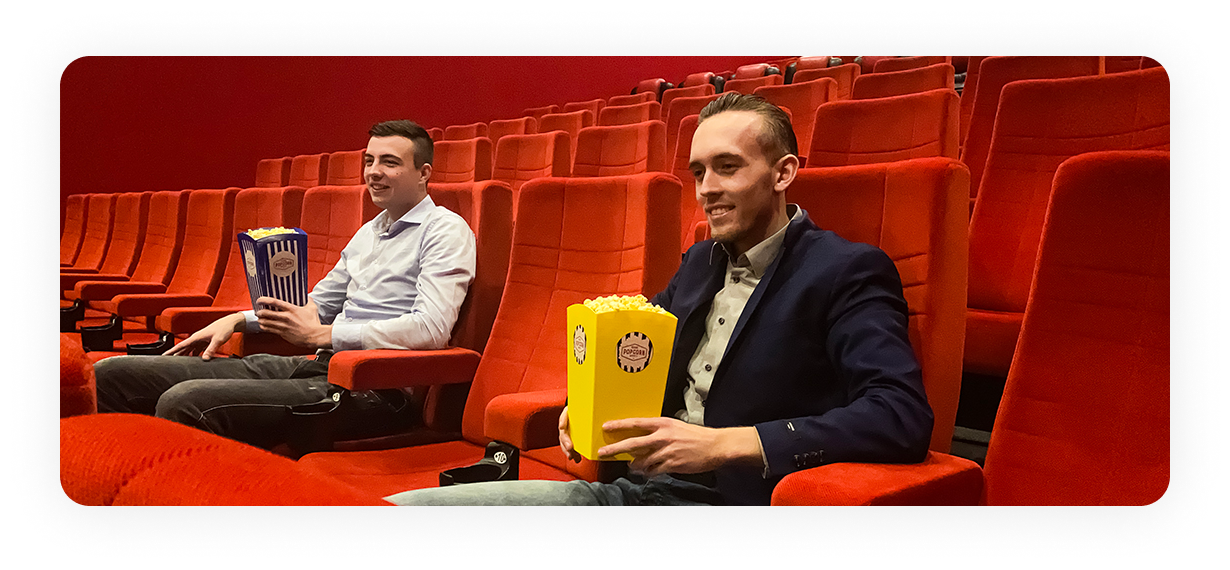
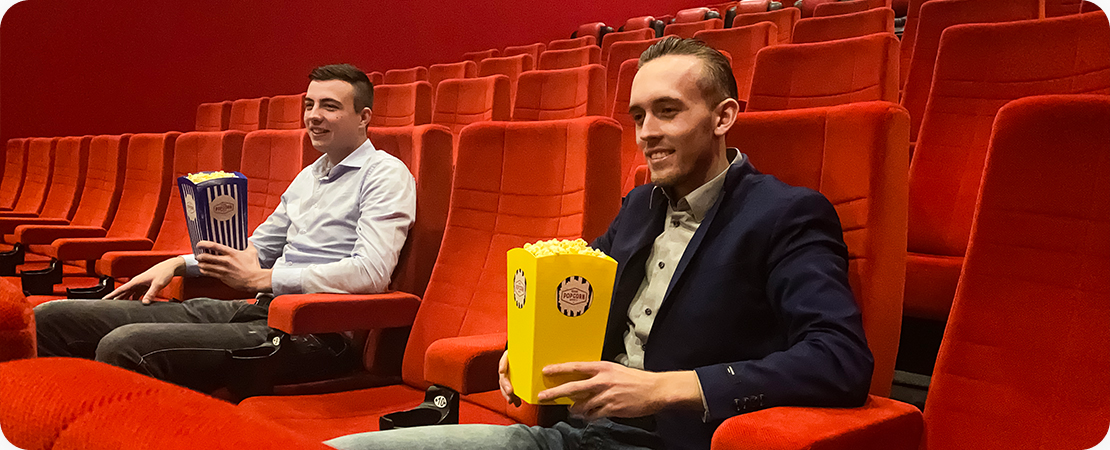
added vectors to home about popcorn

diff --git a/src/assets/css/popcorn.css b/src/assets/css/popcorn.css
@@ -6,7 +6,7 @@ section#sustainable-minfal {
     margin-bottom: 50px;
 }
 section#benefits {
-    margin-bottom: 358px;
+    margin-bottom: 150px;
 }
 section#product-range {
     margin-bottom: 50px;
@@ -31,14 +31,56 @@ section#contact-footer {
     section#hero {
         margin-bottom: 70px;
     }
+    section#sustainable-minfal {
+        position: relative;
+    }
+    section#sustainable-minfal .vector {
+        position: absolute;
+        background-image: url("./../vectors/popcornbeker.png");
+        background-repeat: no-repeat;
+        background-position: top left;
+        background-size: contain;
+        width: 205px;
+        height: 227px;
+        top: -60px;
+    }
     section#benefits {
-        margin-bottom: 414px;
+        background-image: url("./../vectors/waves.svg");
+        background-repeat: no-repeat;
+        background-position: top right;
+        background-size: 214px 96px;
+        margin-bottom: 0;
     }
     section#product-range {
-        margin-bottom: 160px;
+        padding-top: 414px;
+        padding-bottom: 160px;
+        margin-bottom: 0;
+        background-image: 
+                url("./../vectors/striped-circle.png"),
+                url("./../vectors/popcorn-popcornbeker-drink.png"),
+                url("./../vectors/popcorn-popcornbeker.png"),
+                url("./../vectors/popcorn-product-range-top.png");
+        background-size:
+                200px 200px,
+                auto 172px,
+                auto 325px,
+                contain;
+        background-repeat: no-repeat;
+        background-position: 
+                top 20% right,
+                top 50% left 5%,
+                top 75% right 5%,
+                top left;
     }
     section#product-range-text {
-        margin-bottom: 280px;
+        padding-bottom: 500px;
+        background-image: url("./../vectors/popcorn-product-range-text.png");
+        background-size: contain;
+        background-repeat: no-repeat;
+        background-position: top
+    }
+    section#contact-footer {
+        margin-top: -400px;
     }
 }
 
@@ -48,4 +90,7 @@ section#contact-footer {
 
 /* XX-Large devices (larger desktops, 1400px and up)*/
 @media (min-width: 1400px) {
+    section#contact-footer {
+        margin-top: -250px;
+    }
 }

diff --git a/src/assets/css/home.css b/src/assets/css/home.css
@@ -3,6 +3,15 @@ section#hero {
     position: relative;
     overflow-x: hidden;
 }
+section#hero .waves {
+    position: absolute;
+    background-image: url("./../vectors/waves.svg");
+    background-repeat: no-repeat;
+    background-position: bottom 20% right;
+    width: 100%;
+    height: 100%;
+    z-index: -1;
+}
 section#products {
     margin-bottom: 100px;
 }
@@ -20,6 +29,7 @@ section#partner-card {
 }
 section#contact-footer {
     margin-bottom: 60px;
+    position: relative;
 }
 
 /* Small devices (landscape phones, 576px and up)*/
@@ -40,18 +50,37 @@ section#contact-footer {
     }
     section#products {
         margin-bottom: 100px;
+        background-image: url("./../vectors/home-products-vector-left.png");
+        background-repeat: no-repeat;
+        background-position: top 30px left;
+        background-size: contain;
     }
     section#number-card {
         margin-bottom: 100px;
     }
     section#product-range {
-        margin-bottom: 260px;
+        /*margin-bottom: 260px;*/
     }
     section#sale-models {
-        margin-bottom: 160px;
+        padding-top: 260px;
+        padding-bottom: 160px;
+        background-image: url("./../vectors/home-sale-models-background.png");
+        background-repeat: no-repeat;
+        background-position: top left;
+        background-size: cover;
     }
     section#partner-card {
         margin-bottom: 100px;
+    }
+    section#contact-footer .waves {
+        position: absolute;
+        background-image: url("./../vectors/waves.svg");
+        background-repeat: no-repeat;
+        background-position: top left;
+        width: 300px;
+        height: 100px;
+        top: -135px;
+        z-index: -1;
     }
 }
 

diff --git a/src/assets/css/about.css b/src/assets/css/about.css
@@ -10,6 +10,20 @@ section#lean-startup {
 }
 section#challenge {
     margin-bottom: 66px;
+    position: relative;
+}
+section#challenge .vector {
+    overflow-x: hidden;
+    overflow-y: visible;
+    position: absolute;
+    width: 100vw;
+    height: 915px;
+    top: 580px;
+    z-index: -1;
+    background-image: url("./../vectors/about-challenge-left.png");
+    background-repeat: no-repeat;
+    background-position: top left; 
+    background-size: contain;
 }
 section#mission {
     margin-bottom: 20px;
@@ -31,14 +45,28 @@ section#contact-footer {
 
 /* Large devices (desktops, 992px and up)*/
 @media (min-width: 992px) {
+    section#hero {
+        margin-bottom: 40px;
+    }
     section#personalities {
         margin-bottom: 70px;
+        background-image: url("./../vectors/waves.svg"), url("./../vectors/grey-triangle.svg");
+        background-repeat: no-repeat;
+        background-position: center right, bottom left 15px;
+        background-size: 214px 96px, 211px 183px;
     }
     section#lean-startup {
         margin-bottom: 90px;
     }
     section#challenge {
         margin-bottom: 80px;
+    }
+    section#challenge .vector {
+        top: 120px;
+        background-image: url("./../vectors/about-challenge-left.png"), url("./../vectors/striped-circle.png");
+        background-repeat: no-repeat;
+        background-position: top left, center right -15px;
+        background-size: contain, 200px 200px;
     }
     section#mission {
         margin-bottom: 50px;

diff --git a/src/components/NumberCard.vue b/src/components/NumberCard.vue
@@ -3,6 +3,7 @@
 <template>
     <div class="container">
         <div class="card">
+            <img class="vector" src="@/assets/vectors/six-squares.png" alt="vector">
             <div class="row">
                 <div class="col-12 col-lg-4">
                     <p class="card-title">10 mln</p>
@@ -23,8 +24,8 @@
 
 <style scoped>
 div.card {
-    background-image: url("@/assets/images/number-card-background.png");
-    background-position: center;
+    background-image: url("@/assets/images/number-card-background.png"), url("@/assets/vectors/six-squares.png");
+    background-position: center, top right;
     background-size: cover;
     background-repeat: no-repeat;
     width: 100%;
@@ -46,6 +47,13 @@ p.card-text {
     font-weight: 600;
     color: var(--white);
 }
+img.vector {
+    position: absolute;
+    width: 53px;
+    height: 53px;
+    top: -18px;
+    left: -7px;
+}
 
 @media (min-width: 992px) {
     div.card {
@@ -57,5 +65,12 @@ p.card-text {
     p.card-text {
         font-size: 18px;
     }
+    img.vector {
+        width: 80px;
+        height: 80px;
+        top: -38px;
+        left: -27px;
+    }
+
 }
 </style>

diff --git a/src/components/home/PartnerCard.vue b/src/components/home/PartnerCard.vue
@@ -5,6 +5,7 @@ import PartnerCardItem from './PartnerCardItem.vue';
 <template>
     <div class="container">
         <div class="card">
+            <img class="vector" src="@/assets/vectors/six-squares.png" alt="vector">
             <div class="row">
                 <div class="col-12 col-lg-4 d-flex flex-column">
                     <p class="card-title">Ga het avontuur aan met Minfal als betrouwbare partner.</p>
@@ -63,6 +64,14 @@ div.item-row {
 div.item-row:first-of-type {
     margin-bottom: 25px;
 }
+
+img.vector {
+    position: absolute;
+    width: 53px;
+    height: 53px;
+    bottom: -18px;
+    right: -7px;
+}
 @media screen and (max-width: 768px) {
     div.item-row {
         flex-wrap: wrap;
@@ -75,6 +84,12 @@ div.item-row:first-of-type {
         font-size: 40px;
         line-height: 50px;
         text-align: left;
+    }
+    img.vector {
+        width: 80px;
+        height: 80px;
+        bottom: -38px;
+        right: -39px;
     }
 }
 </style>

diff --git a/src/components/about/Personalities.vue b/src/components/about/Personalities.vue
@@ -3,8 +3,9 @@
 <template>
     <div class="container">
         <div class="row mx-0">
-            <div class="col-12 text-center px-0">
-                <img class="banner" src="@/assets/images/about-cinema-banner.jpg" alt="Bioscoop banner Daniel en Leendert-Jan">
+            <div class="col-12 text-center px-0 position-relative">
+                <img class="d-none d-lg-block vector" src="@/assets/vectors/popcornbeker.png" alt="Vector">
+                <img class="banner" src="@/assets/images/about-cinema-banner.png" alt="Bioscoop banner Daniel en Leendert-Jan">
             </div>
         </div>
         <div class="row mx-0 mt-5">
@@ -61,4 +62,15 @@ p {
     max-height: 118px;
     margin-right: 17px;
 }
+@media (min-width: 992px) {
+    img.vector {
+        position: absolute;
+        z-index: -1;
+        width: 253px;
+        height: 280px;
+        top: -10px;
+        left: -215px;
+    }
+}
+
 </style>

diff --git a/src/components/home/Hero.vue b/src/components/home/Hero.vue
@@ -10,7 +10,7 @@
         </h1>
         <button class="secondary">Meer</button>
         <div class="card">
-            <!--            <img src="@/assets/images/home-hero-main-image.png" alt="">-->
+            <div class="background-image d-none d-lg-block"></div>
         </div>
     </div>
 </template>
@@ -56,6 +56,17 @@ button {
     background-size: 80% 80%;
     object-fit: contain;
     margin: 2% 10px 25px 10px;
+}
+.background-image {
+    position: absolute;
+    background-image: url("@/assets/vectors/popcornbeker.png");
+    background-repeat: no-repeat;
+    width: 100%;
+    height: 100%;
+    background-size: 227px 250px;
+    background-position: bottom 30px left;
+    left: -130px;
+    z-index: -1;
 }
 
 @media (min-width: 576px) {

diff --git a/src/views/HomeView.vue b/src/views/HomeView.vue
@@ -12,6 +12,7 @@ import ContactFooter from "../components/ContactFooter.vue";
 
 <template>
     <section id="hero">
+        <div class="waves"></div>
         <Hero/>
     </section>
     <section id="products">
@@ -30,6 +31,7 @@ import ContactFooter from "../components/ContactFooter.vue";
         <PartnerCard/>
     </section>
     <section id="contact-footer">
+        <div class="waves"></div>
         <ContactFooter
             title="Laten we beginnen!"
             text="We komen graag op bezoek om vrijblijvend de mogelijkheden te bespreken."

diff --git a/src/views/PopcornView.vue b/src/views/PopcornView.vue
@@ -14,6 +14,7 @@ import ContactFooter from "../components/ContactFooter.vue";
         <Hero title="Popcornbeker"/>
     </section>
     <section id="sustainable-minfal">
+        <div class="vector"></div>
         <TitleText title="Ga voor duurzaam met Minfal">
             <p>Onze herbruikbare popcornbekers.</p>
             <p>Vervang wegwerpverpakkingen voor de herbruikbare popcornbekers van Minfal. Hiermee boost u uw duurzaamheidsimago en kunt u besparen op verpakkingskosten. Een uniek en iconisch product, maar dan duurzaam.</p>

diff --git a/src/components/Hero.vue b/src/components/Hero.vue
@@ -42,6 +42,7 @@ h1 {
         background-image: url("@/assets/vectors/hero-desktop.svg");
         background-repeat: no-repeat;
         background-position: top -115px center;
+        background-size: cover;
     }
     
     .mobile-header-vector {
@@ -50,6 +51,13 @@ h1 {
     
     h1 {
         margin-top: 40px;
+    }
+}
+
+@media (min-width: 1921px) {
+    .container-fluid {
+        min-height: calc(550px - 115px);
+        background-position: top -200px center;
     }
 }
 </style>

diff --git a/src/components/home/Products.vue b/src/components/home/Products.vue
@@ -35,4 +35,13 @@ button {
     margin-top: 35px;
 }
 
+@media (min-width: 992px) {
+    img {
+        background-image: url("@/assets/vectors/14-squares.png");
+        background-repeat: no-repeat;
+        background-size: 98px 188px;
+        background-position: top right;
+    }
+}
+
 </style>

diff --git a/src/views/AboutView.vue b/src/views/AboutView.vue
@@ -22,6 +22,7 @@ import ContactFooter from "../components/ContactFooter.vue";
         </TitleText>
     </section>
     <section id="challenge">
+        <div class="vector"></div>
         <Challenge/>
     </section>
     <section id="mission">
